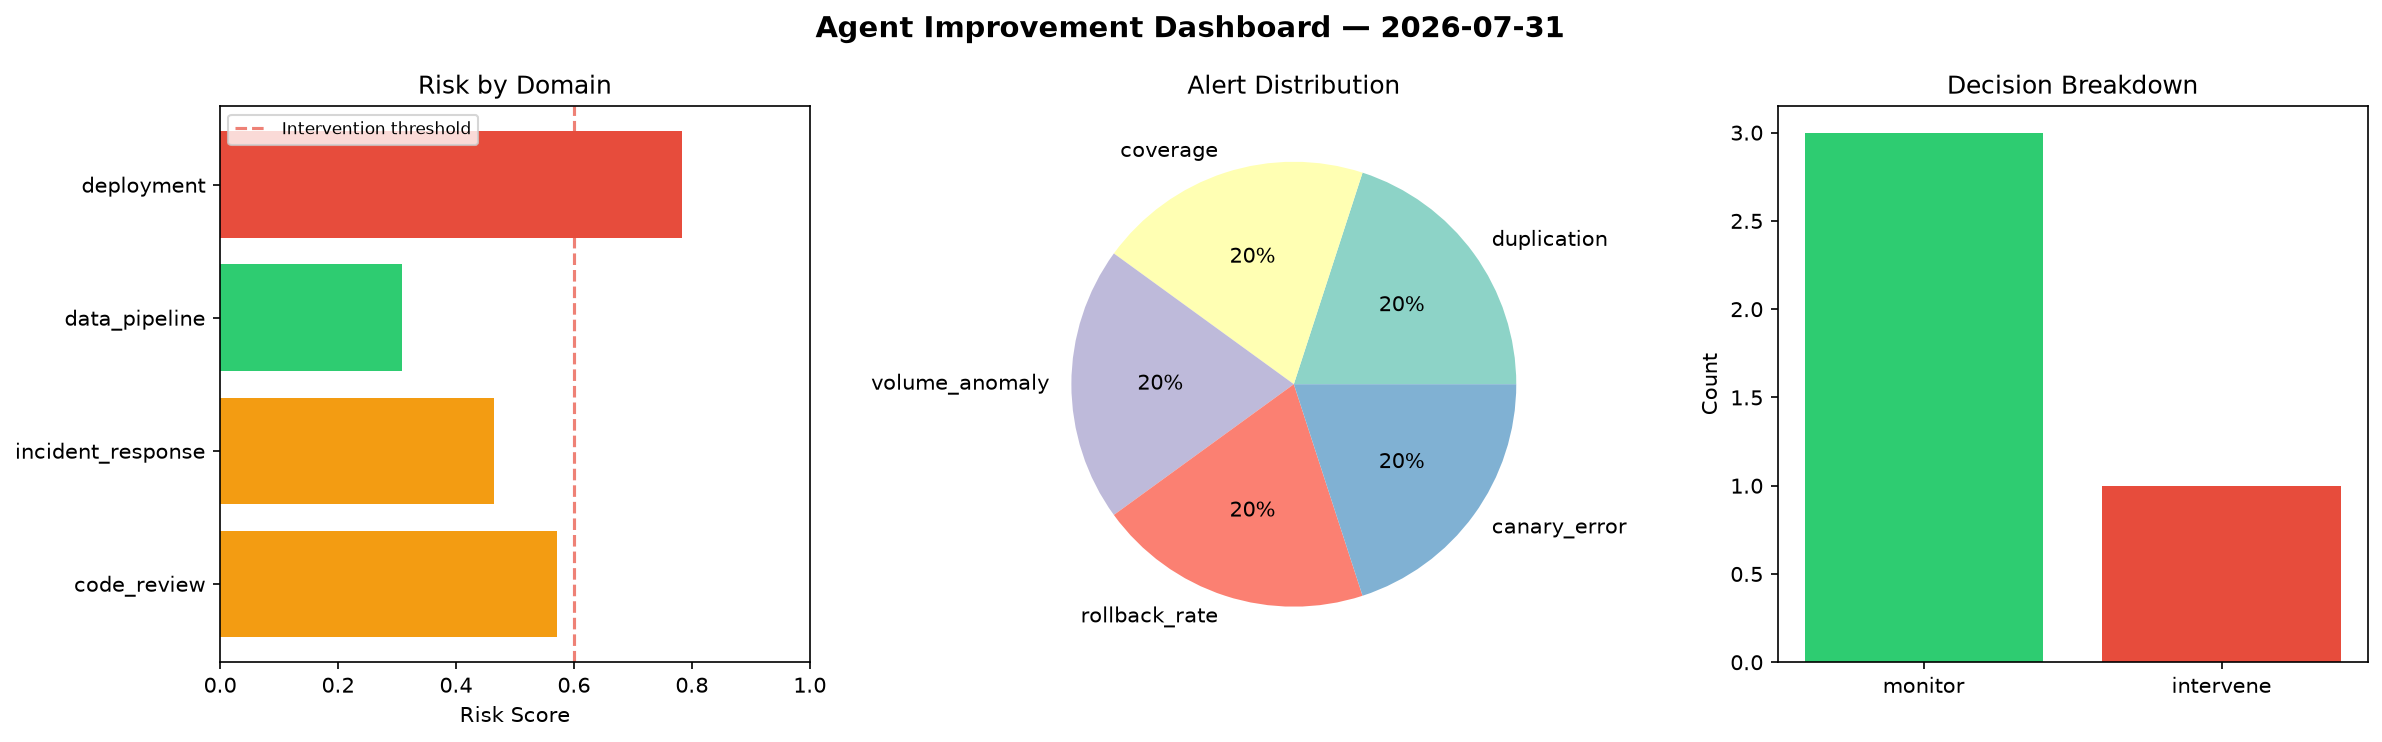
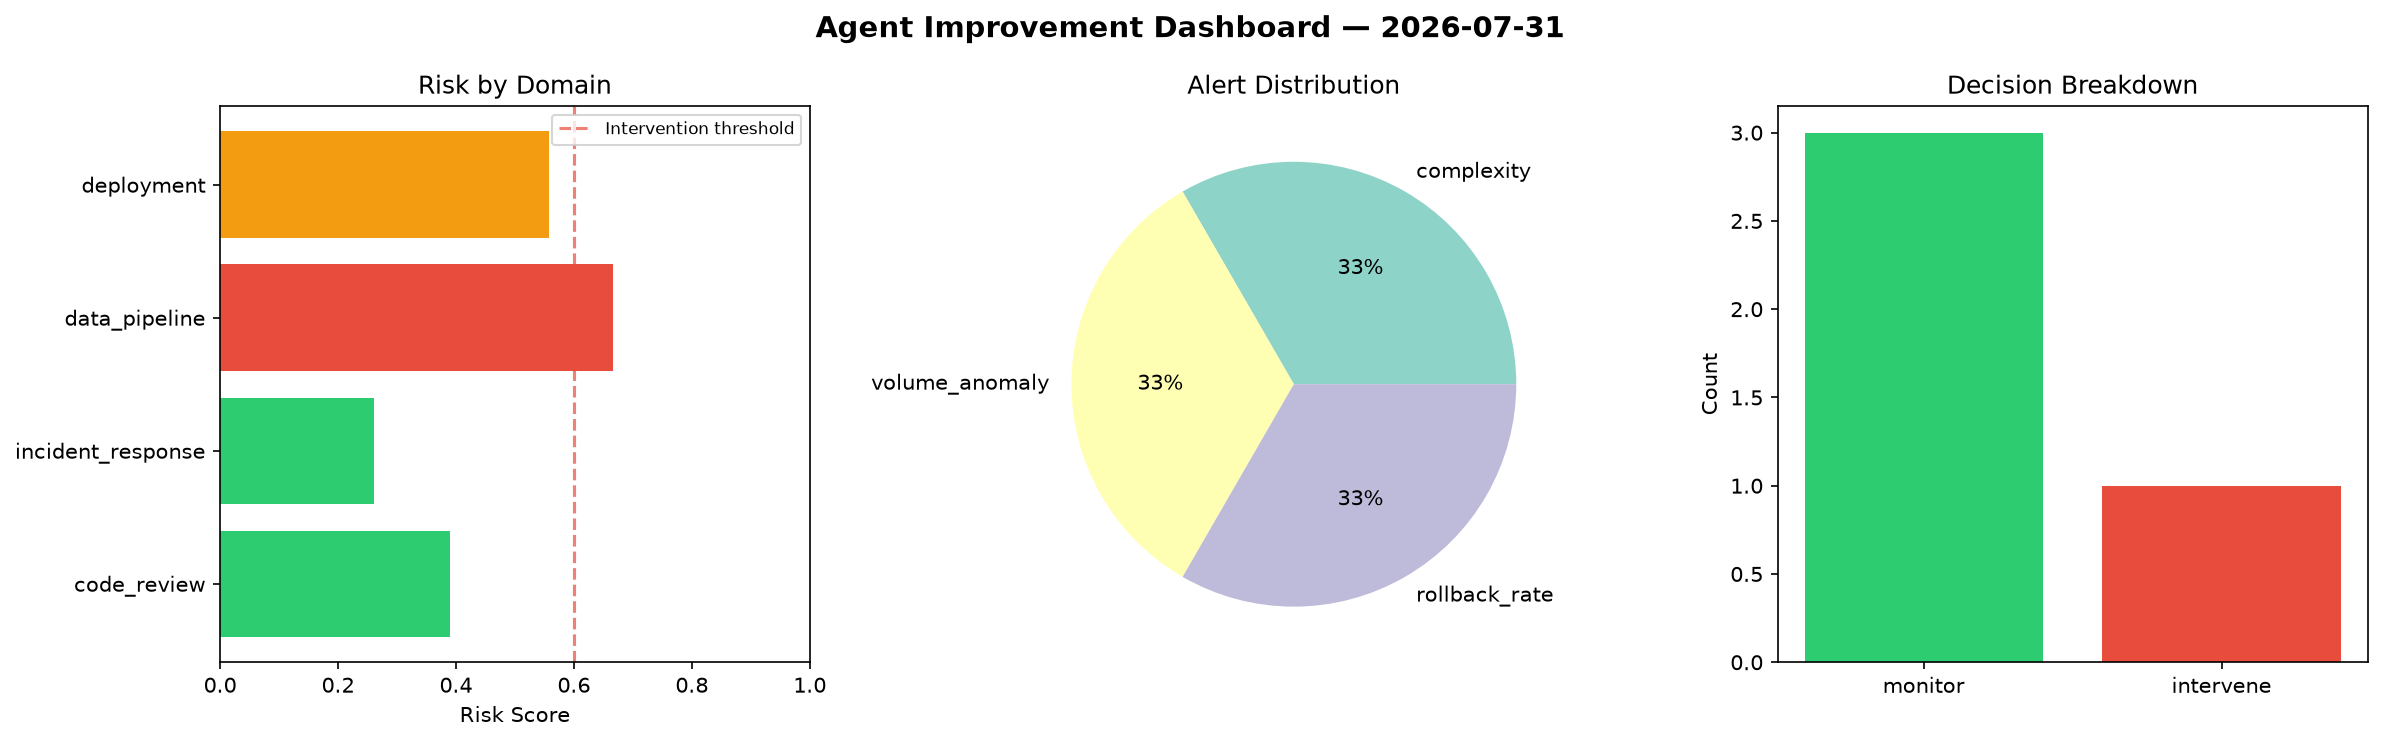
agent-improvement: daily cycle 2026-07-31T21:20

diff --git a/logs/2026-07-31.md b/logs/2026-07-31.md
@@ -1,6 +1,6 @@
 # Agent Improvement Report — 2026-07-31
 
-**Cycle ID:** `4f5763c5` | **Avg Risk:** 0.5321 | **Interventions:** 1/4
+**Cycle ID:** `cbaa537a` | **Avg Risk:** 0.4685 | **Interventions:** 1/4
 
 ![Dashboard](2026-07-31_dashboard.png)
 
@@ -10,18 +10,18 @@
 
 | Domain | Risk Score | Decision | Alerts |
 |--------|-----------|----------|--------|
-| code_review | 0.5714 | monitor | duplication, coverage |
-| incident_response | 0.4652 | monitor | none |
-| data_pipeline | 0.3078 | monitor | volume_anomaly |
-| deployment | 0.784 | intervene | rollback_rate, canary_error |
+| code_review | 0.3905 | monitor | complexity |
+| incident_response | 0.2604 | monitor | none |
+| data_pipeline | 0.6661 | intervene | volume_anomaly |
+| deployment | 0.557 | monitor | rollback_rate |
 
 ## Delta vs Yesterday
 
 | Domain | Today | Yesterday | Change |
 |--------|-------|-----------|--------|
-| code_review | 0.5714 | 0.7405 | 📉 -22.8% |
-| incident_response | 0.4652 | 0.3241 | 📈 43.5% |
-| data_pipeline | 0.3078 | 0.4734 | 📉 -35.0% |
-| deployment | 0.784 | 0.7293 | 📈 7.5% |
+| code_review | 0.3905 | 0.7405 | 📉 -47.3% |
+| incident_response | 0.2604 | 0.3241 | 📉 -19.7% |
+| data_pipeline | 0.6661 | 0.4734 | 📈 40.7% |
+| deployment | 0.557 | 0.7293 | 📉 -23.6% |
 
 **Refinement:** `{'adjustment': 'tighten_thresholds', 'trend': 'degrading', 'window': 4}`
